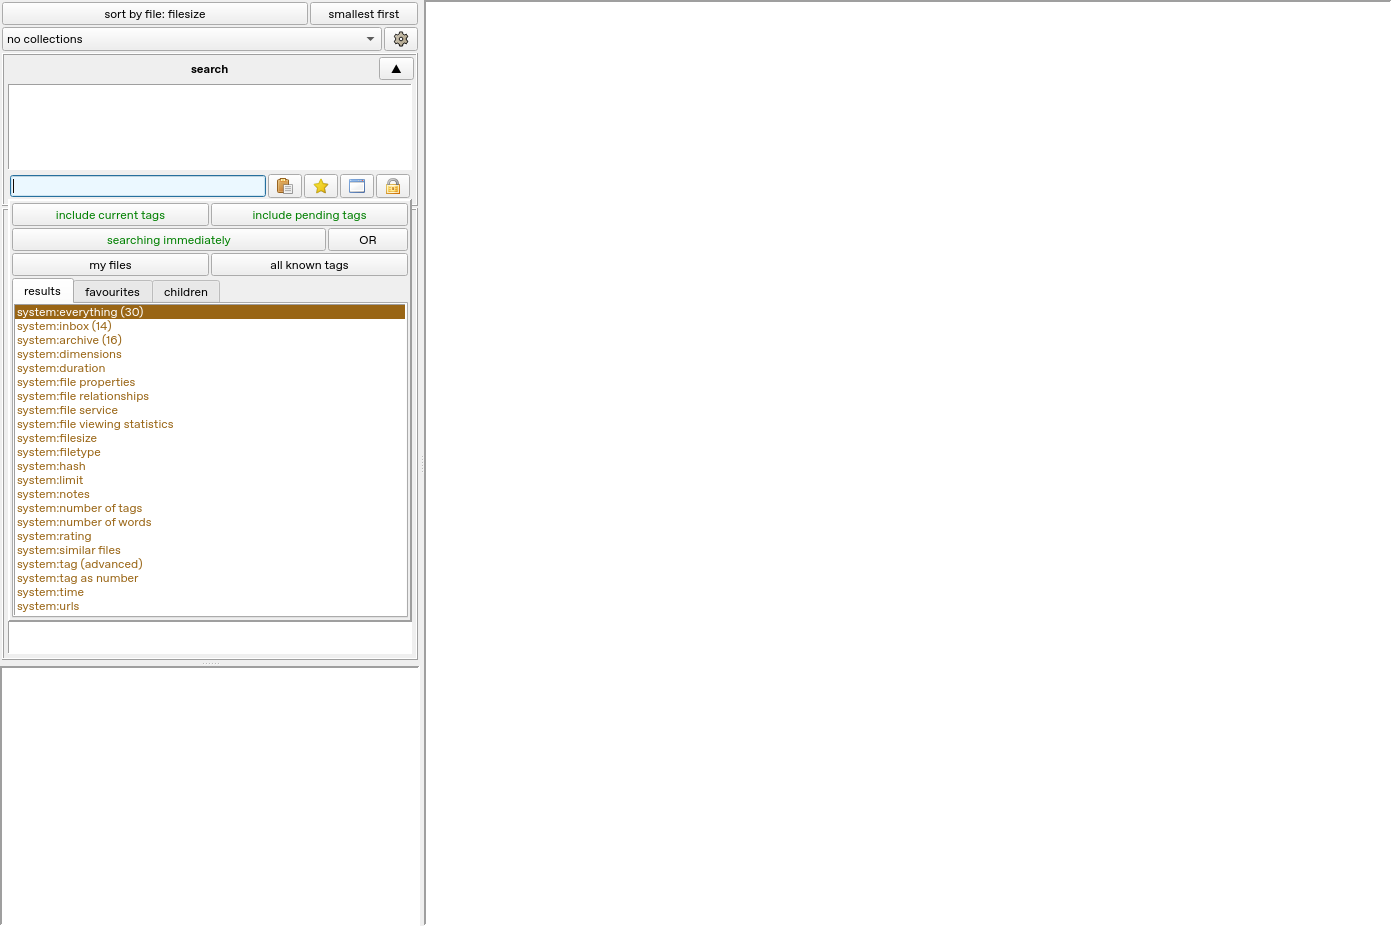
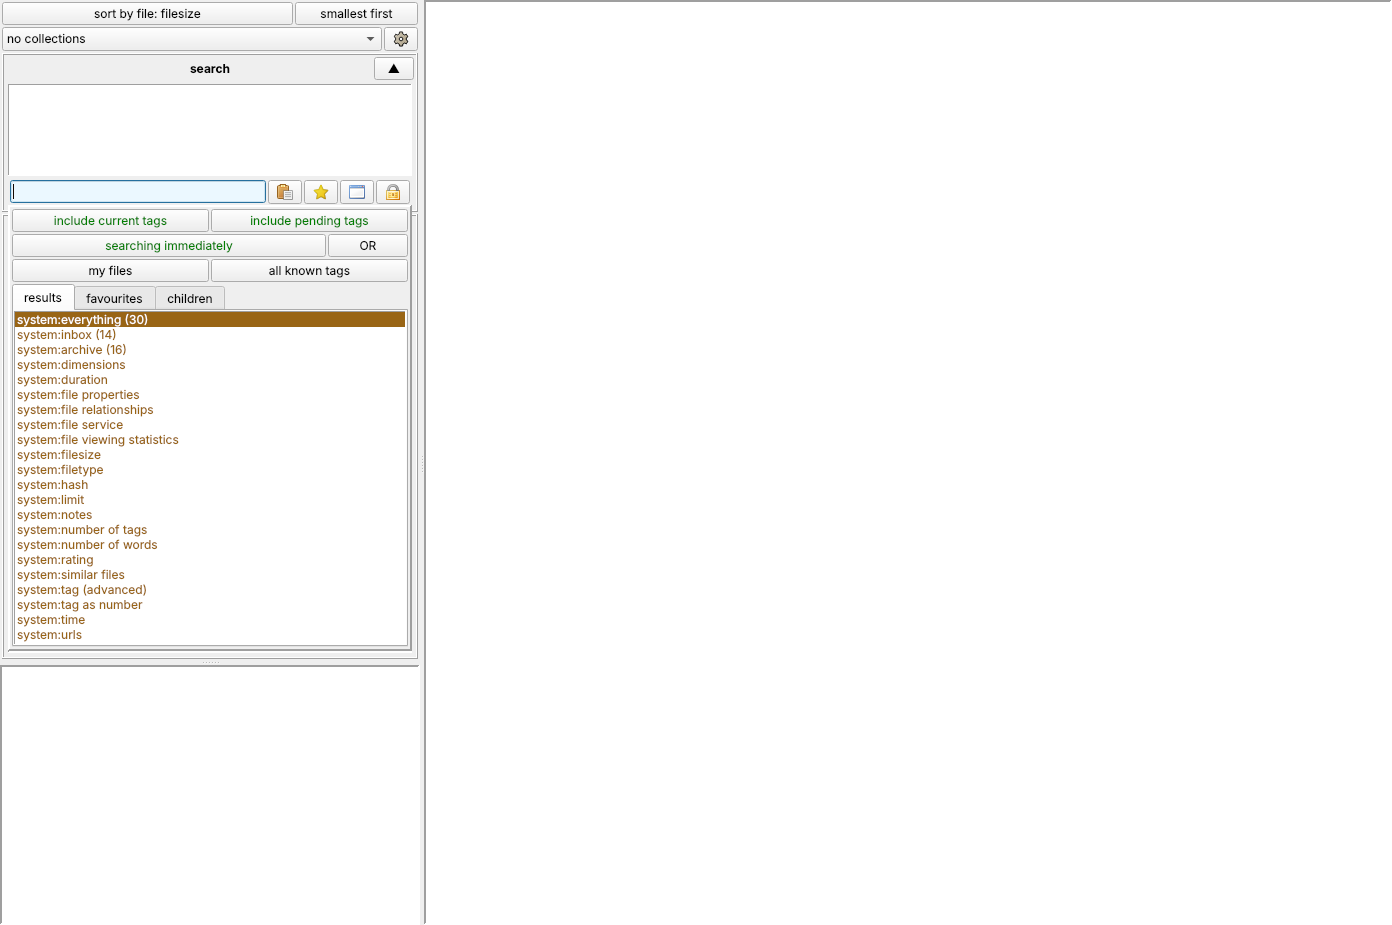
Record and replay real double clicks on both splitter handles
The three new steps were recorded in a later run of record_sidebar_layout.py and added to the existing recording; its other steps are unchanged.

Claude-Session: https://claude.ai/code/session_01QKdowVF7azMYT9ds5dfAkm

diff --git a/crates/hydrus-gui/tests/gui/sidebar_layout.rs b/crates/hydrus-gui/tests/gui/sidebar_layout.rs
@@ -1011,6 +1011,29 @@ fn the_splitters_save_restore_and_hide_as_the_reference_did_step_by_step() {
     peek(1, 0, step("return first retains sizes"));
     sidebar(&ui, SAVE);
     check(step("save current now"), "one");
+    // real double clicks on each handle while both panes are shown (the
+    // reference's `EventPreviewUnsplit` and `EventUnsplit`), each put back
+    double_click(
+        &native,
+        ui.get_preview_handle_x() + 100.0,
+        ui.get_preview_handle_y() + 3.0,
+    );
+    render(&native);
+    check(step("preview double click collapse"), "one");
+    let (key, epoch) = (ui.get_layout_page_key(), ui.get_layout_epoch());
+    ui.invoke_sidebar_resized(key.clone(), epoch, true, 295.0);
+    render(&native);
+    double_click(
+        &native,
+        ui.get_sidebar_handle_x() + 3.0,
+        ui.get_sidebar_handle_y() + 150.0,
+    );
+    render(&native);
+    check(step("sidebar double click collapse"), "one");
+    ui.invoke_sidebar_resized(key.clone(), epoch, false, 470.0);
+    ui.invoke_sidebar_resized(key, epoch, true, 295.0);
+    render(&native);
+    check(step("collapse put back"), "one");
     sidebar(&ui, TOGGLE);
     render(&native);
     check(step("hide sidebar"), "one");

diff --git a/oracle/record_sidebar_layout.py b/oracle/record_sidebar_layout.py
@@ -58,6 +58,16 @@ def record(session):
         select(two);two.SetSplitterPositions(460,-280);snap('resize second')
         select(one);snap('return first retains sizes')
         c.gui._SaveSplitterPositions();snap('save current now')
+        # real double clicks on the handles (the pages' `EventUnsplit` and
+        # `EventPreviewUnsplit`) while both panes are shown, each put back after
+        def dclick(split):
+            handle=split.handle(1)
+            QtTest.QTest.mouseDClick(handle,QC.Qt.MouseButton.LeftButton,pos=handle.rect().center())
+            settle()
+        dclick(one._management_preview_split);snap('preview double click collapse')
+        one.SetSplitterPositions(470,-295);settle()
+        dclick(one._sidebar_media_split);snap('sidebar double click collapse')
+        one.SetSplitterPositions(470,-295);settle();snap('collapse put back')
         three=root.NewPageQuery(context,page_name='three',select_page=True);settle();three.PageShown();settle()
         new_page=state(three)
         select(one);c.gui._ShowHideSplitters();snap('hide sidebar')
